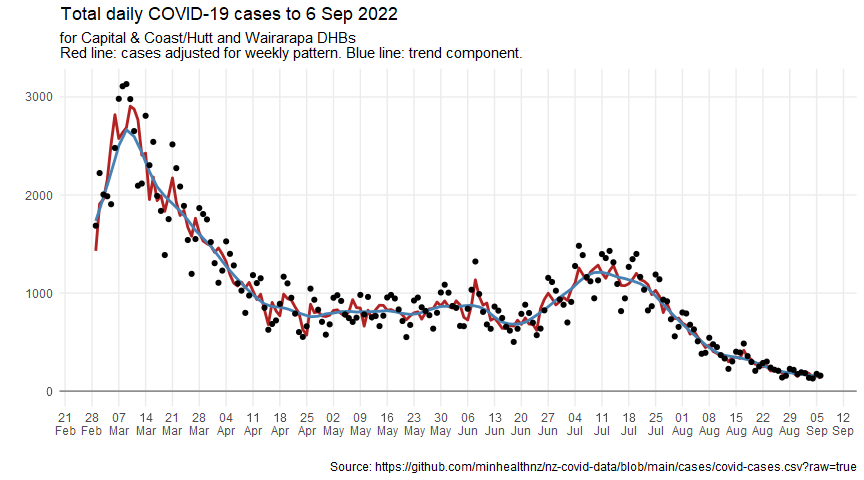
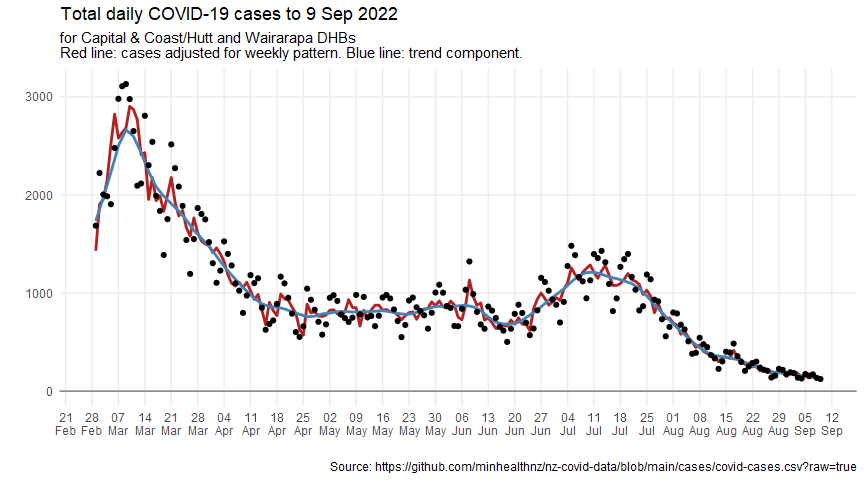
Update for 20220910

diff --git a/covid-post-peak-analysis.md b/covid-post-peak-analysis.md
@@ -34,7 +34,7 @@ cases_df <- read_csv(case_data_url) %>%
   clean_names()
 ```
 
-    ## Rows: 1753182 Columns: 7
+    ## Rows: 1757913 Columns: 7
     ## ── Column specification ────────────────────────────────────────────────────────
     ## Delimiter: ","
     ## chr  (5): Case Status, Sex, Age group, DHB, Overseas travel
@@ -51,7 +51,7 @@ cases_by_dhb_df <- cases_df %>%
   count(report_date, dhb, case_status)
 ```
 
-## Wellington figures up to 6 Sep 2022
+## Wellington figures up to 9 Sep 2022
 
 Including Hutt and Wairarapa as well as CCDHB.
 
@@ -171,11 +171,11 @@ maxima <- dhb_cases_after_transform_stl_df %>%
   summarise(cases = max(cases), adjusted = max(season_adjust), trend = max(trend))
 ```
 
-Looking at raw case numbers, the peak on 9 Mar 2022 was about 24.3 times
+Looking at raw case numbers, the peak on 9 Mar 2022 was about 25.3 times
 the lowest recent value.
 
-But when adjusting for the weekly pattern, it was 21.7 times the lowest
-recent adjusted value, and the trend was about 18.1 times the lowest
+But when adjusting for the weekly pattern, it was 22.1 times the lowest
+recent adjusted value, and the trend was about 20.4 times the lowest
 recent trend line.
 
 While the trend might be over-smoothed, the peak coincinded with the
